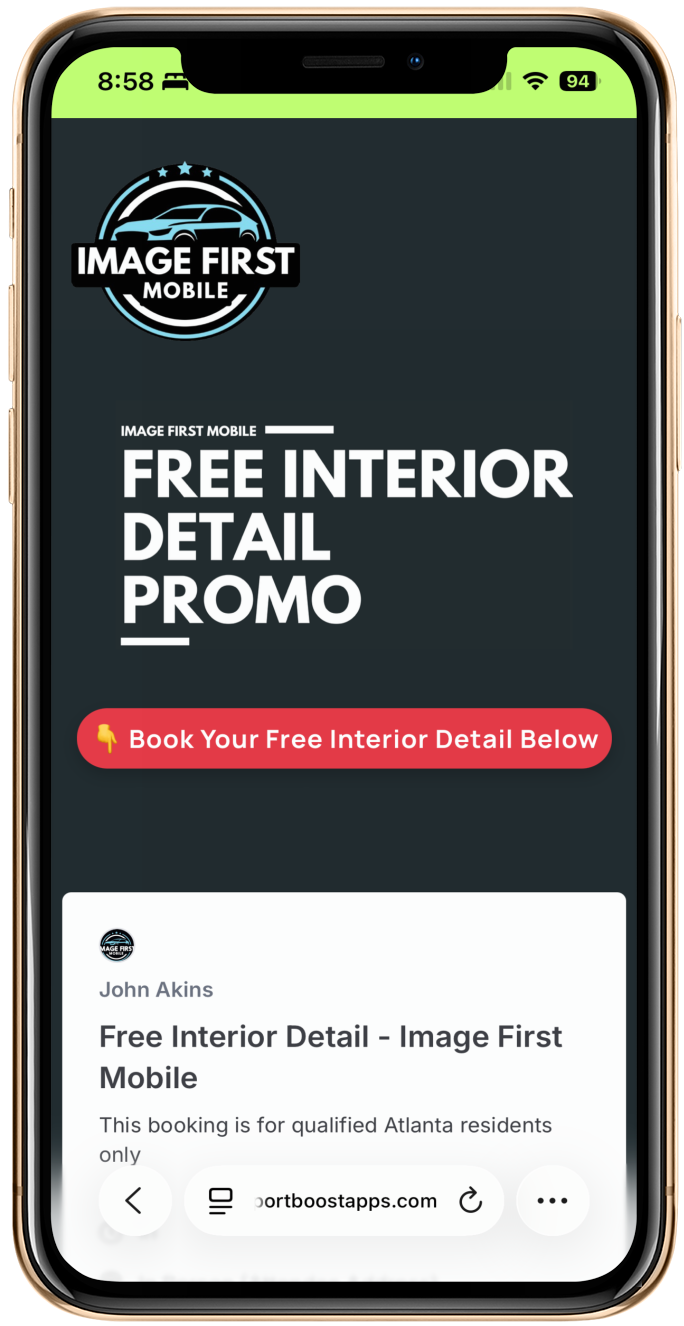
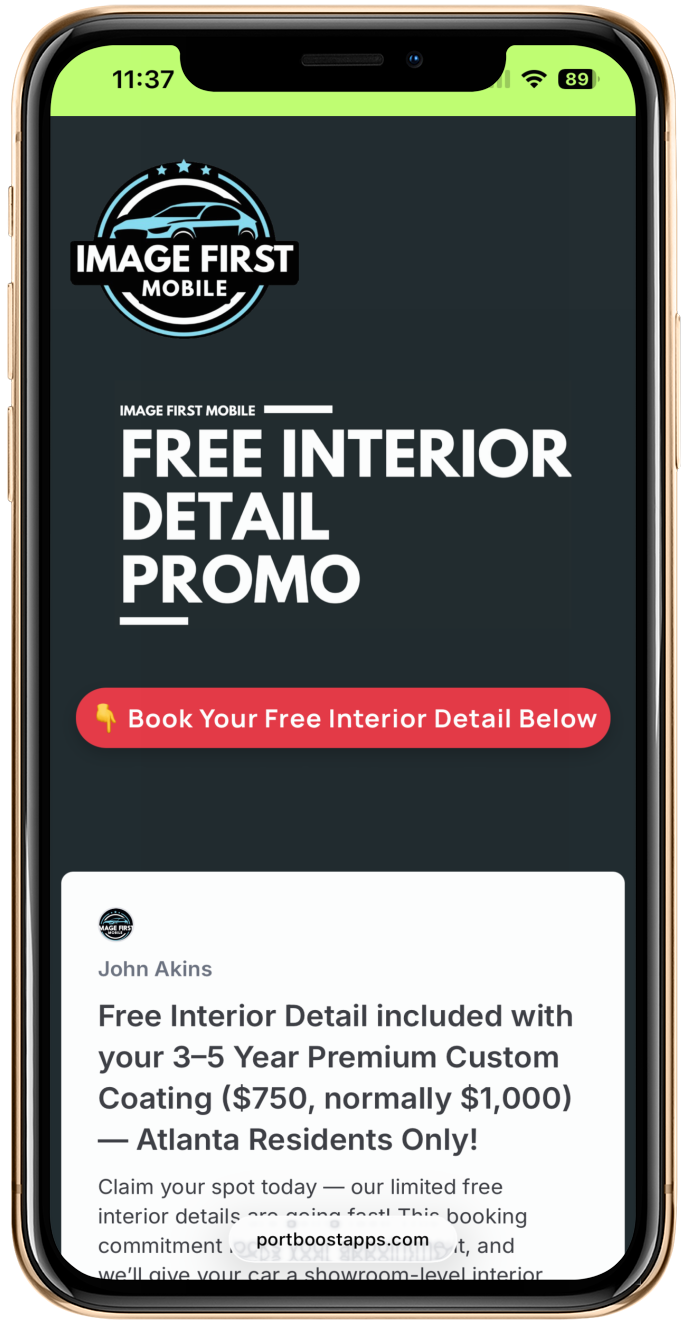
more and more updates

diff --git a/imagefirstmobile/free-detail/index.html b/imagefirstmobile/free-detail/index.html
@@ -185,37 +185,92 @@ src="https://www.facebook.com/tr?id=1126745922941855&ev=PageView&noscript=1"
         <img src="assets/images/backgrounds/stats-facts-bg.svg" alt="" class="img-fluid">
       </div>
 
+<!-- John’s Work Carousel -->
+<section class="john-gallery py-5 mt-5 " style="background-color: #111;">
+  <div class="container">
 
+    <!-- Header -->
+    <div class="row mb-4">
+      <div class="col text-center">
+        <h2 class="text-white">Some of Our Recent Work</h2>
+        <p class="text-white text-opacity-70 fs-6">High-end detailing & custom coatings — results you can trust.</p>
+      </div>
+    </div>
 
-      <div class="john-gallery mt-5">
-  <div class="row g-3">
-    <div class="col-md-3 col-sm-6">
-      <div class="card border-0 bg-transparent">
-        <img src="path/to/image1.jpg" class="img-fluid rounded shadow-sm" alt="Mercedes G-Wagon — Full Ceramic Coating & Interior Detail">
-        <p class="text-white text-opacity-70 mt-2 small text-center">Mercedes G-Wagon — Full Ceramic Coating & Interior Detail</p>
+    <!-- Carousel -->
+    <div id="johnWorkCarousel" class="carousel slide" data-bs-ride="carousel">
+      <div class="carousel-inner">
+
+        <!-- Slide 1 -->
+        <div class="carousel-item active">
+          <div class="row g-3 justify-content-center">
+            <div class="col-md-3 col-sm-6">
+              <img src="../../assets/images/backgrounds/minusone.jpg" class="img-fluid rounded shadow-sm" alt="Mercedes G-Wagon — Full Ceramic Coating & Interior Detail">
+            </div>
+            <div class="col-md-3 col-sm-6">
+              <img src="../../assets/images/backgrounds/one.jpg" class="img-fluid rounded shadow-sm" alt="Mercedes G-Wagon — Full Ceramic Coating & Interior Detail">
+            </div>
+            <div class="col-md-3 col-sm-6">
+              <img src="../../assets/images/backgrounds/two.jpg" class="img-fluid rounded shadow-sm" alt="BMW X5 — Premium Detailing">
+            </div>
+            <div class="col-md-3 col-sm-6">
+              <img src="../../assets/images/backgrounds/three.jpg" class="img-fluid rounded shadow-sm" alt="Range Rover — Full Interior & Exterior Care">
+            </div>
+          </div>
+        </div>
+
+        <!-- Slide 2 -->
+        <div class="carousel-item">
+          <div class="row g-3 justify-content-center">
+            <div class="col-md-3 col-sm-6">
+              <img src="../../assets/images/backgrounds/four.jpg" class="img-fluid rounded shadow-sm" alt="Porsche Cayenne — Ceramic Coating & Detailing">
+            </div>
+            <div class="col-md-3 col-sm-6">
+              <img src="../../assets/images/backgrounds/five.jpg" class="img-fluid rounded shadow-sm" alt="Porsche Cayenne — Ceramic Coating & Detailing">
+            </div>
+            <div class="col-md-3 col-sm-6">
+              <img src="../../assets/images/backgrounds/six.jpg" class="img-fluid rounded shadow-sm" alt="Porsche Cayenne — Ceramic Coating & Detailing">
+            </div>
+            <div class="col-md-3 col-sm-6">
+              <img src="../../assets/images/backgrounds/seven.jpg" class="img-fluid rounded shadow-sm" alt="Porsche Cayenne — Ceramic Coating & Detailing">
+            </div>
+          </div>
+        </div>
+
+        <!-- Slide 3 -->
+        <div class="carousel-item">
+          <div class="row g-3 justify-content-center">
+            <div class="col-md-3 col-sm-6">
+              <img src="../../assets/images/backgrounds/eight.jpg" class="img-fluid rounded shadow-sm" alt="Porsche Cayenne — Ceramic Coating & Detailing">
+            </div>
+            <div class="col-md-3 col-sm-6">
+              <img src="../../assets/images/backgrounds/nine.jpg" class="img-fluid rounded shadow-sm" alt="Porsche Cayenne — Ceramic Coating & Detailing">
+            </div>
+            <div class="col-md-3 col-sm-6">
+              <img src="../../assets/images/backgrounds/ten.jpg" class="img-fluid rounded shadow-sm" alt="Porsche Cayenne — Ceramic Coating & Detailing">
+            </div>
+            <div class="col-md-3 col-sm-6">
+              <img src="../../assets/images/backgrounds/eleven.jpg" class="img-fluid rounded shadow-sm" alt="Porsche Cayenne — Ceramic Coating & Detailing">
+            </div>
+          </div>
+        </div>
+
       </div>
+
+      <!-- Controls -->
+      <button class="carousel-control-prev" type="button" data-bs-target="#johnWorkCarousel" data-bs-slide="prev">
+        <span class="carousel-control-prev-icon bg-dark rounded-circle p-3" aria-hidden="true"></span>
+        <span class="visually-hidden">Previous</span>
+      </button>
+      <button class="carousel-control-next" type="button" data-bs-target="#johnWorkCarousel" data-bs-slide="next">
+        <span class="carousel-control-next-icon bg-dark rounded-circle p-3" aria-hidden="true"></span>
+        <span class="visually-hidden">Next</span>
+      </button>
+
     </div>
-    <div class="col-md-3 col-sm-6">
-      <div class="card border-0 bg-transparent">
-        <img src="path/to/image2.jpg" class="img-fluid rounded shadow-sm" alt="BMW X5 — Premium Detailing">
-        <p class="text-white text-opacity-70 mt-2 small text-center">BMW X5 — Premium Detailing</p>
-      </div>
-    </div>
-    <div class="col-md-3 col-sm-6">
-      <div class="card border-0 bg-transparent">
-        <img src="path/to/image3.jpg" class="img-fluid rounded shadow-sm" alt="Range Rover — Full Interior & Exterior Care">
-        <p class="text-white text-opacity-70 mt-2 small text-center">Range Rover — Full Interior & Exterior Care</p>
-      </div>
-    </div>
-    <div class="col-md-3 col-sm-6">
-      <div class="card border-0 bg-transparent">
-        <img src="path/to/image4.jpg" class="img-fluid rounded shadow-sm" alt="Porsche Cayenne — Ceramic Coating & Detailing">
-        <p class="text-white text-opacity-70 mt-2 small text-center">Porsche Cayenne — Ceramic Coating & Detailing</p>
-      </div>
-    </div>
+
   </div>
-</div>
-    </section>
+</section>
 
   
     <!--  Services Section -->
@@ -360,7 +415,7 @@ Limited spots available monthly in Atlanta</p>
       <div class="row gap-7 gap-xl-0">
         <div class="col-xl-4 col-xxl-4">
           <div class="d-flex align-items-center gap-7 py-2" data-aos="fade-right" data-aos-delay="100" data-aos-duration="1000">
-            <span class="round-36 flex-shrink-0 text-dark rounded-circle bg-primary hstack justify-content-center fw-medium">01</span>
+            <span class="round-36 flex-shrink-0 text-dark rounded-circle bg-primary hstack justify-content-center fw-medium">03</span>
             <hr class="border-line bg-white">
             <span class="badge text-bg-dark">How It Works</span>
              
@@ -427,42 +482,58 @@ Limited spots available monthly in Atlanta</p>
 </section>
   
    <!-- Why Work With Us Section -->
-<section class="why-work-with-us py-5 py-lg-11 bg-dark" style="background-color: #f5f5f5;">
+<section class="why-work-with-us py-5 py-lg-11" style="background-color: #1a1a1a;">
   <div class="container">
     <div class="d-flex flex-column gap-5">
 
-      <!-- Header -->
-      <div class="row">
-        <div class="col-lg-8 mx-auto text-center" data-aos="fade-up" data-aos-delay="100" data-aos-duration="1000">
-          <h2 class="text-white mb-3">Why Choose Image First Mobile?</h2>
-          <p class="text-white text-opacity-70 fs-6 fs-md-5">
+   
+        <!-- Header -->
+      <div class="row gap-7 gap-xl-0">
+        <div class="col-xl-4 col-xxl-4">
+          <div class="d-flex align-items-center gap-7 py-2" data-aos="fade-right" data-aos-delay="100" data-aos-duration="1000">
+            <span class="round-36 flex-shrink-0 text-dark rounded-circle bg-primary hstack justify-content-center fw-medium">04</span>
+            <hr class="border-line bg-white">
+            <span class="badge text-bg-dark">Why Choose Us</span>
+             
+          </div>
+        </div>
+        <div class="col-xl-8 col-xxl-7">
+          <div class="row">
+            <div class="col-xxl-8">
+              <div class="d-flex flex-column gap-6" data-aos="fade-up" data-aos-delay="100" data-aos-duration="1000">
+                 <h2 class="text-white mb-3">Why Choose Image First Mobile?</h2>
+                 
+             <p class="text-white text-opacity-70 fs-6 fs-md-5">
             Trusted by luxury vehicle owners for over 14 years — results you can see, quality you can trust.
           </p>
+              </div>
+            </div>
+          </div>
         </div>
       </div>
 
       <!-- Bullet Points / Features -->
       <div class="row g-4 mt-4">
         <div class="col-lg-3 col-md-6 d-flex flex-column align-items-center text-center" data-aos="fade-up" data-aos-delay="200" data-aos-duration="1000">
-          <img src="../../assets/images/backgrounds/experience.jpg" alt="Experience" class="mb-3" width="60">
+          <img src="../../assets/images/backgrounds/A.jpg" alt="Experience" class="mb-3" width="60">
           <h5 class="text-white mb-1">14+ Years Experience</h5>
           <p class="text-white text-opacity-70 fs-7 mb-0">High-end vehicles perfected</p>
         </div>
 
         <div class="col-lg-3 col-md-6 d-flex flex-column align-items-center text-center" data-aos="fade-up" data-aos-delay="300" data-aos-duration="1000">
-          <img src="../../assets/images/backgrounds/credentials.jpg" alt="Certified" class="mb-3" width="60">
+          <img src="../../assets/images/backgrounds/B.jpg" alt="Certified" class="mb-3" width="60">
           <h5 class="text-white mb-1">Certified Professional</h5>
           <p class="text-white text-opacity-70 fs-7 mb-0">Detailing & SystemX Ceramic Installer</p>
         </div>
 
         <div class="col-lg-3 col-md-6 d-flex flex-column align-items-center text-center" data-aos="fade-up" data-aos-delay="400" data-aos-duration="1000">
-          <img src="../../assets/images/backgrounds/longtime.jpg" alt="High-End Results" class="mb-3" width="60">
+          <img src="../../assets/images/backgrounds/C.jpg" alt="High-End Results" class="mb-3" width="60">
           <h5 class="text-white mb-1">Showroom Finish</h5>
           <p class="text-white text-opacity-70 fs-7 mb-0">Hydrophobic 9H coatings & spotless interiors</p>
         </div>
 
         <div class="col-lg-3 col-md-6 d-flex flex-column align-items-center text-center" data-aos="fade-up" data-aos-delay="500" data-aos-duration="1000">
-          <img src="../../assets/images/backgrounds/rewards.jpg" alt="Trusted" class="mb-3" width="60">
+          <img src="../../assets/images/backgrounds/D.jpg" alt="Trusted" class="mb-3" width="60">
           <h5 class="text-white mb-1">Trusted By Clients</h5>
           <p class="text-white text-opacity-70 fs-7 mb-0">Real reviews & proven results</p>
         </div>
@@ -483,25 +554,58 @@ Limited spots available monthly in Atlanta</p>
             </a>
         </div>
       </div>
+ 
+    </div>
 
+  </div>
+
+<!-- Centered Image -->
+<img src="../../assets/images/backgrounds/image-banner.jpg" alt="Experience" class="d-block mx-auto" style="max-width:500px; margin-bottom: -95px;">
+ 
+</section>
+
+<!-- Testimonials Separator -->
+<section class="testimonials-bar" style="background-color: #000; padding: 20px 0;">
+  <div class="container">
+    <div class="row">
+      <div class="col text-start">
+        <h3 class="text-white mb-0" style="font-size: 1.75rem; font-weight: 600;">
+          50+ Testimonials: <span style="color: #bef472;">Will You Be Next?</span>
+        </h3>
+      </div>
     </div>
   </div>
 </section>
 
-
-
 <!-- Testimonials Section -->
-<section class="testimonial py-5 py-lg-11 py-xl-12 bg-dark" style= "margin-top: -150px;">
-  <div class="container">
+<section class="testimonial py-5 py-lg-11 py-xl-12 bg-dark" >
+  <div class="container" style="margin-top: -60px;">
     <div class="d-flex flex-column gap-5">
-
-      <!-- Header -->
-      <div class="row mb-5">
-        <div class="col text-center">
-          <h2 class="text-white">What Our Clients Are Saying</h2>
-          <p class="text-white text-opacity-70 fs-5">Real feedback from real customers who trusted Image First Mobile.</p>
+      
+        <!-- Header -->
+      <div class="row gap-7 gap-xl-0">
+        <div class="col-xl-4 col-xxl-4">
+          <div class="d-flex align-items-center gap-7 py-2" data-aos="fade-right" data-aos-delay="100" data-aos-duration="1000">
+            <span class="round-36 flex-shrink-0 text-dark rounded-circle bg-primary hstack justify-content-center fw-medium">05</span>
+            <hr class="border-line bg-white">
+            <span class="badge text-bg-dark">Premium Results</span>
+             
+          </div>
+        </div>
+        <div class="col-xl-8 col-xxl-7">
+          <div class="row">
+            <div class="col-xxl-8">
+              <div class="d-flex flex-column gap-6" data-aos="fade-up" data-aos-delay="100" data-aos-duration="1000">
+                 <h2 class="text-white">What Our Clients Are Saying</h2>
+                 
+        <p class="text-white text-opacity-70 fs-5">Real feedback from real customers who trusted Image First Mobile.</p>
+              </div>
+            </div>
+          </div>
         </div>
       </div>
+
+
 
       <!-- Top Row: 3 Standard Testimonials -->
       <div class="row g-4">
